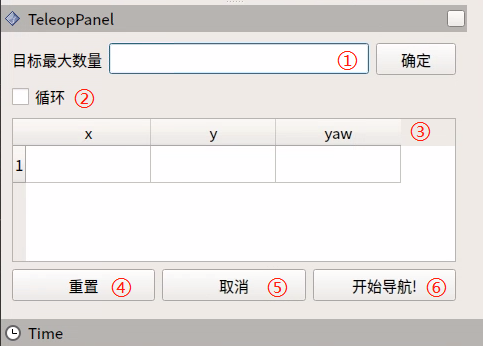
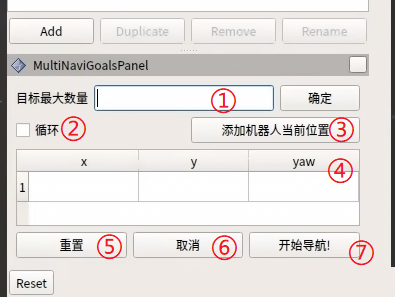
update

diff --git a/source/version_two/network/keyboard-plugin.md b/source/version_two/network/keyboard-plugin.md
@@ -4,54 +4,31 @@
 
 在 OS 系统中程序默认识别的是插在车载电脑上的键盘外设，远程主机的键盘命令程序无法接收，键盘控制指令则无法执行。
 
-为了解决远程连接控制的问题，我们需要安装一个键盘功能包，获取远程主机键盘的按键指令，将控制命令发送到车载主机上。
+为了解决远程连接控制的问题，我们为用户提供了键盘包，可获取远程主机键盘的按键指令，将控制命令发送到车载主机上。
 
 
-## rviz_keyboard_plugin
-
-
-### 描述：
+### 功能描述：
 
 该功能包为Autolabor 机器人远程连接时，提供用户端主机键盘控制功能。
 
+
+## 适用系统版本
+
+AutolaborOS-2.2.1及以上
+
+注：如是2.2.1以下的版本需要手动下载安装该功能包，安装教程见本文最末。
+
+OS系统->设置->详细信息可查看系统版本号，如无版本号则为2.2.1以下版本。
+
+
 ### 要求:
 
-* 必须基于 Autolabor OS 使用
-* 该插件与键盘鼠标不能同时使用，使用时需拔掉插在电脑上的键盘设备
-
-### 一、下载与编译
+该插件与键盘鼠标不能同时使用，使用时需拔掉插在电脑上的键盘设备
 
 
-#### 1. 下载程序包
+### 一、配置
 
-进入 /home/autolabor/catkin_ws/src 目录，执行
-
-```
-git clone https://github.com/autolaborcenter/rviz_keyboard_plugin.git
-```
-
-或访问 https://github.com/autolaborcenter/rviz_keyboard_plugin.git 下载源代码，放入 /home/autolabor/catkin_ws/src 目录中
-
-给新加入的文件添加操作权限，在/home/autolabor/catkin_ws 目录下，右键打开终端，执行
-
-`sudo chmod -R 777 /home/autolabor/catkin_ws/src/`
-
-输入密码 `autolabor`，回车
-
-#### 2. 编译
-
-还是在 /home/autolabor/catkin_ws 目录下，终端执行
-
-`sudo rm -rf build/ devel/ logs/ .catkin_tools/`
-
-输入密码 `autolabor`，回车，然后执行
-
-`catkin build -j2`
-
-
-### 二、安装
-
-以**SLAM建图**为例，演示该插件的安装方法。
+以**SLAM建图**为例，演示该插件的配置方法。
 
 #### 1. 远程连接
 
@@ -83,7 +60,7 @@ RViz 的左上角依次点击 Panels -> Add New Panel -> rviz_keyboard_twist -> 
 
 **做完以上操作后 Ctrl  + S 保存 RViz 配置，如忘记保存，则下次进来要重复操作。**
 
-### 三、使用
+### 二、使用
 
 
 #### 1. 激活键盘控制
@@ -109,6 +86,38 @@ RViz 的左上角依次点击 Panels -> Add New Panel -> rviz_keyboard_twist -> 
 3. 键盘控制使用完毕后，必须要取消键盘控制。
 
 
+### 附录：安装方法
+
+#### 适用系统
+
+AutolaborOS2.2.1 以下系统用户
+
+
+#### 1. 下载程序包
+
+进入 /home/autolabor/catkin_ws/src 目录，执行
+
+```
+git clone https://github.com/autolaborcenter/rviz_keyboard_plugin.git
+```
+
+或访问 https://github.com/autolaborcenter/rviz_keyboard_plugin.git 下载源代码，放入 /home/autolabor/catkin_ws/src 目录中
+
+给新加入的文件添加操作权限，在/home/autolabor/catkin_ws 目录下，右键打开终端，执行
+
+`sudo chmod -R 777 /home/autolabor/catkin_ws/src/`
+
+输入密码 `autolabor`，回车
+
+#### 2. 编译
+
+还是在 /home/autolabor/catkin_ws 目录下，终端执行
+
+`sudo rm -rf build/ devel/ logs/ .catkin_tools/`
+
+输入密码 `autolabor`，回车，然后执行
+
+`catkin build -j2`
 
 
 

diff --git a/source/version_two/user_guide/quick_start/multi_slam_doc.md b/source/version_two/user_guide/quick_start/multi_slam_doc.md
@@ -70,8 +70,6 @@ RViz 的左上角 Panels->Add New Panel-> Tool Property
 
 ##### 新增 marker （目标点标记）
 
-注：仅AutolaborOS-2.2.1以下版本需进行此操作
-
 RViz 左侧 Display -> add -> Marker
 
 <img style="float: left;" src="imgs/intro5.png" />
@@ -95,14 +93,16 @@ RViz 左侧 Display -> add -> Marker
 
 ② 是否循环：若勾选，导航至最后一个目标点后，将重新导航至第一个目标点。例：1->2->3->1->2->3->···，该选项必须在开始导航前勾选
 
-③ 任务目标点列表： x/y/yaw，地图上给定目标点的位姿（xy坐标与航向角yaw)。
+③ 添加机器人当前位置：控制机器人运动到目标点，点击该按钮，记录当前位置坐标
+
+④ 任务目标点列表： x/y/yaw，地图上给定目标点的位姿（xy坐标与航向角yaw)。
 
 * 设置完目标最大数量，保存后，该列表会生成对应数量的条目
 * 每给出一个目标点，此处会读取到目标点的坐标与朝向
 
-④ 重置：将清空当前所有目标点
+⑤ 重置：将清空当前所有目标点
 
-⑤ 取消：取消当前目标点导航任务，机器人停止运动。再次点击开始导航后，会从下一个任务点开始。
+⑥ 取消：取消当前目标点导航任务，机器人停止运动。再次点击开始导航后，会从下一个任务点开始。
 
 例：1->2->3，在1->2的过程中点击取消，机器人停止运动，点击开始导航后，机器人将从当前坐标点去往3。
 
@@ -123,11 +123,20 @@ RViz 左侧 Display -> add -> Marker
 
 ##### 2) 设置目标点
 
+
+方法一：
+
+控制机器人运动到目标点，点击【添加机器人当前位置】，该坐标被记录下来
+
+方法二：
+
 点击ToolBar上的2D Nav Goal，在地图上给定目标点。（每次设置都需要先点击2D Nav Goal）
 
 目标点有朝向区分，箭头顶端为车头方向。
 
 ![](imgs/intro11.png)
+
+
 
 ##### 3) 点击开始导航，导航开始
 
@@ -147,6 +156,10 @@ RViz 左侧 Display -> add -> Marker
 勾选循环，单次任务完成后，会从最后一个目标点到第一个目标点，显示颜色为蓝色。
 
 ![](imgs/intro15.png)
+
+### 保存坐标点
+
+已知在该环境地图中已经设置好了若干任务点，ctrl+s 保存 Rviz ，则该任务会被保存在 Rviz 配置文件中，下次打开后会从配置文件中自动读取。
 
 
 *** 
